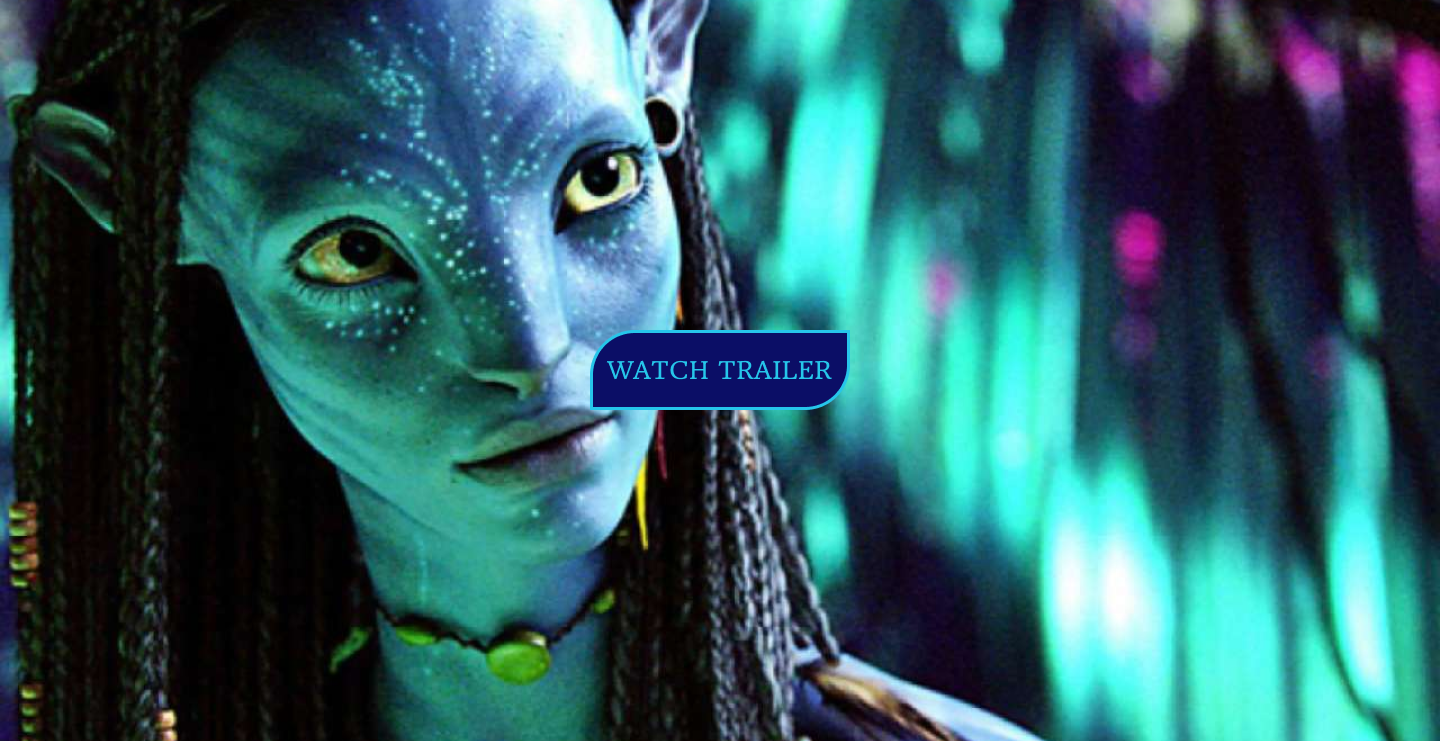
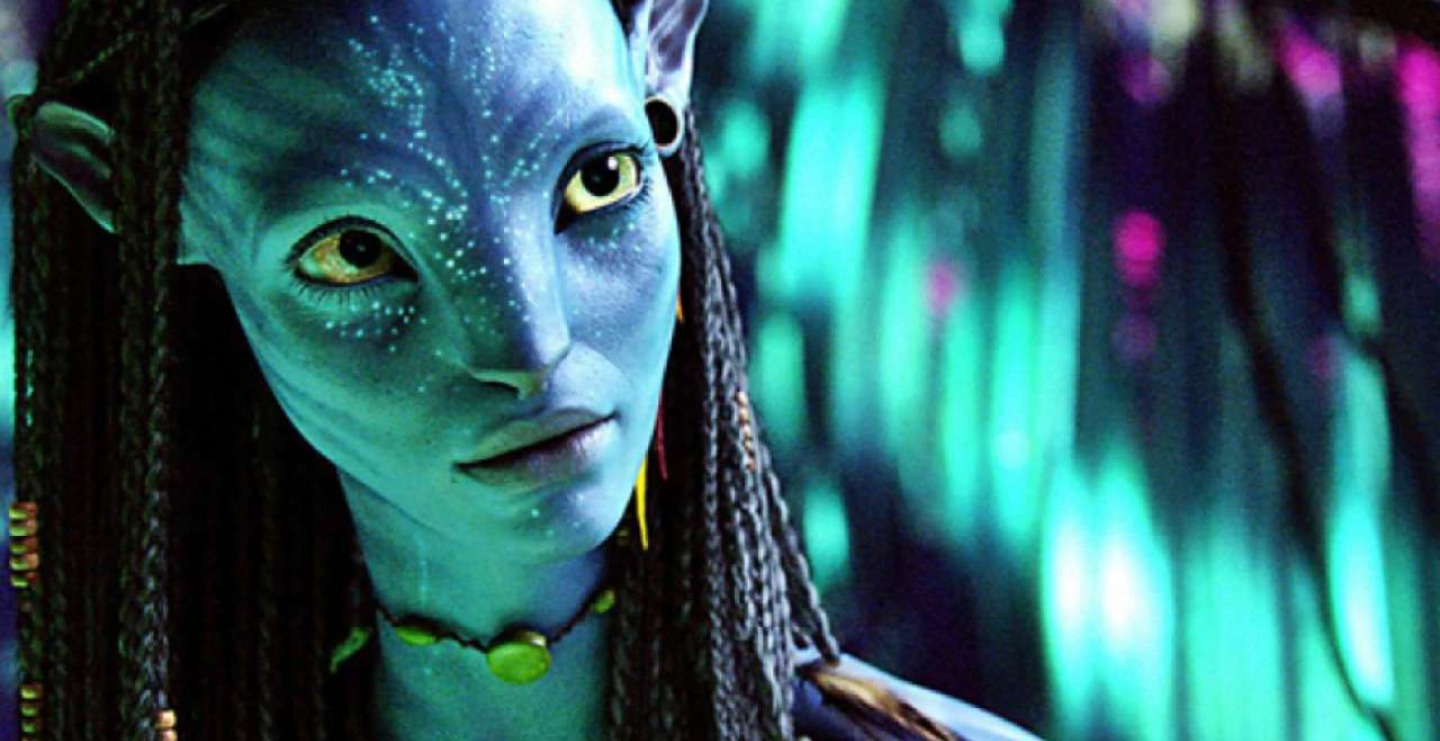
m

Changed region(s): [[0.4062, 0.4345, 0.5938, 0.5587]]

diff --git a/style.css b/style.css
@@ -35,19 +35,32 @@ a {
 .header {
   width: 1440px;
   height: 150px;
-  margin: auto;
+  margin-left: auto;
+  margin-right: auto;
+  max-width: 1440px;
+  background-size: cover;
+  background-position: center;
+  border-bottom: 3px solid black;
+  display: flex;
+  padding-top: 39px;
+  padding-bottom: 39px;
+  padding-left: 207px;
+  padding-right: 48px;
+  max-width: 1440px;
   background-image: url("./images/header-backround.png");
 }
 
 .header-position {
   display: flex;
-  justify-content: space-between;
   align-items: center;
+  justify-content: space-between;
+  margin-left: 0;
 }
 
 .header-nav-list {
+  width: 325px;
+  margin-left: 168px;
   display: flex;
-  justify-content: center;
 }
 
 .header-nav-list-item {
@@ -56,6 +69,10 @@ a {
 }
 
 .header-button {
+  width: 65px;
+  font-family: "HeadlandOne";
+  font-size: 20px;
+  margin-left: auto;
   border-radius: 20px;
   background-color: blue;
 }
@@ -66,13 +83,27 @@ a {
 .hero {
   width: 1440px;
   height: 740px;
-  margin: auto;
+  background-size: cover;
+  background-position: center;
+  margin-left: auto;
+  margin-right: auto;
   background-image: url("./images/navig-background.png");
 }
 
-.cont-hero {
+.hero-header {
+  display: none;
+}
+
+.hero-position {
   display: flex;
   justify-content: space-between;
+  align-items: center;
+  max-width: 1030px;
+}
+
+.club-navi {
+  border-radius: 20px;
+  background-color: blue;
 }
 
 .hero-title {
@@ -93,22 +124,29 @@ a {
 .intagram {
   background-image: url("./images/instagram.png");
   background-repeat: no-repeat;
+  width: 30px;
+  height: 30px;
 }
 
 .twitter {
   background-image: url("./images/twitter.png");
   background-repeat: no-repeat;
-  width: 30px;
+  width: 34px;
   height: 30px;
 }
 
 .youtube {
   background-image: url("./images/youtube.png");
   background-repeat: no-repeat;
+  width: 50px;
+  height: 30px;
 }
 
 .author-section {
-  margin: auto;
+  margin-top: 75px;
+  align-items: center;
+  margin-left: auto;
+  margin-right: auto;
 }
 
 .author_s-thought {
@@ -118,11 +156,13 @@ a {
 
 .author-title {
   display: flex;
+  align-items: center;
   justify-content: center;
 }
 
 .author-title-2 {
   display: flex;
+  align-items: center;
   justify-content: center;
 }
 
@@ -134,11 +174,17 @@ a {
 .trailer-sect {
   width: 1440px;
   height: 740px;
-  margin: auto;
+  margin-left: auto;
+  margin-right: auto;
   padding-top: 330px;
   display: flex;
   justify-content: center;
   background-image: url("./images/trailer-background.png");
+}
+
+.tlailer-link-button {
+  border-radius: 20px;
+  background-color: blue;
 }
 
 .cont-author {
@@ -147,9 +193,11 @@ a {
 }
 
 .Navi-language-table {
-  width: 1440px;
+  width: 144opx;
   height: 700px;
-  margin: auto;
+  margin-left: auto;
+  margin-right: auto;
+  max-width: 1440px;
   background-image: url("./images/table-backround.png");
 }
 
@@ -161,7 +209,8 @@ a {
 .footer {
   width: 1440px;
   height: 150px;
-  margin: auto;
+  margin-left: auto;
+  margin-right: auto;
   background-image: url("./images/header-backround.png");
 }
 

diff --git a/index.html b/index.html
@@ -51,30 +51,33 @@
           target="_blank"
           >Log In</a
         >
+      </div>
+      <div>
         <span class="/">eng</span>
         <div class="switcher"></div>
         <span class="/">ua</span>
       </div>
     </header>
     <section class="hero">
-      <div class="container">
-        <div class="cont-hero"></div>
-        <h1>Hero</h1>
-        <p class="hero-title">
-          Oe perlltxe hu tsamsiyu! Ngari hu Eywa salew tirea, tokx 'ì'awn slu
-          Na'viyä hapxì. Säwem nìayoeng!
-        </p>
-        <div class="arrowhero"></div>
-        <p class="hero-second-title">
-          I'm speaking with the warrior! Your spirit goes with Eywa, your body
-          stays behind to become part of the People. Fight with us!
-        </p>
-        <a
-          href="https://www.youtube.com/watch?v=mHDEDDrGYvo"
-          class="club-navi"
-          target="_blank"
-          >Join clan</a
-        >
+      <div class="container hero-position">
+        <h1 class="hero-header">Hero</h1>
+        <div class="">
+          <p class="hero-title">
+            Oe perlltxe hu tsamsiyu! Ngari hu Eywa salew tirea, tokx 'ì'awn slu
+            Na'viyä hapxì. Säwem nìayoeng!
+          </p>
+          <div class="arrowhero"></div>
+          <p class="hero-second-title">
+            I'm speaking with the warrior! Your spirit goes with Eywa, your body
+            stays behind to become part of the People. Fight with us!
+          </p>
+          <a
+            href="https://www.youtube.com/watch?v=mHDEDDrGYvo"
+            class="club-navi"
+            target="_blank"
+            >Join clan</a
+          >
+        </div>
         <ul class="official-social-networks">
           <li><div class="instagram"></div></li>
           <li><div class="twitter"></div></li>
@@ -96,7 +99,7 @@
       <div class="container,trailer-pos,cont-sect">
         <a
           href="https://www.youtube.com/watch?v=d9MyW72ELq0"
-          class="trailer-link"
+          class="trailer-link-button"
           target="_blank"
           >WATCH TRAILER</a
         >
